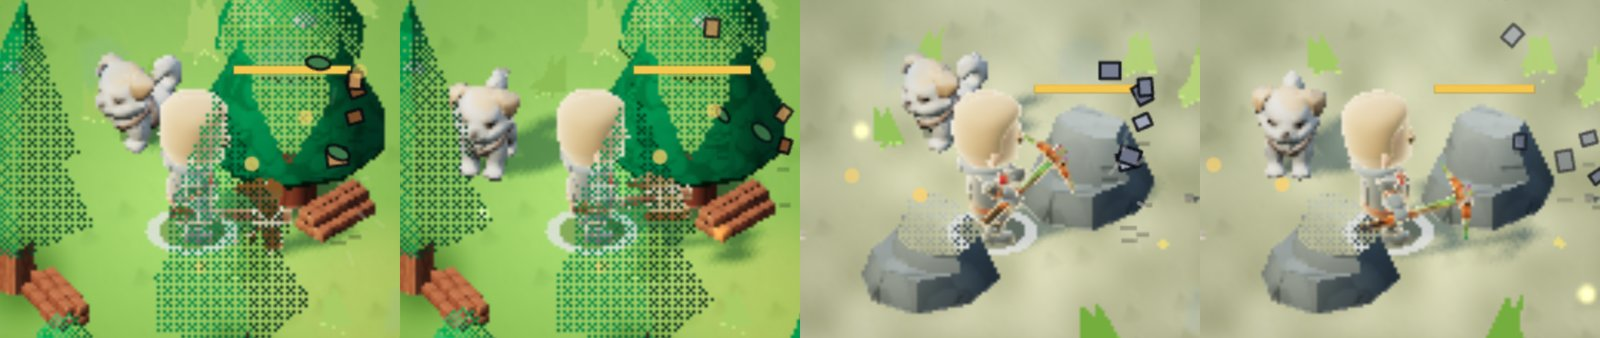
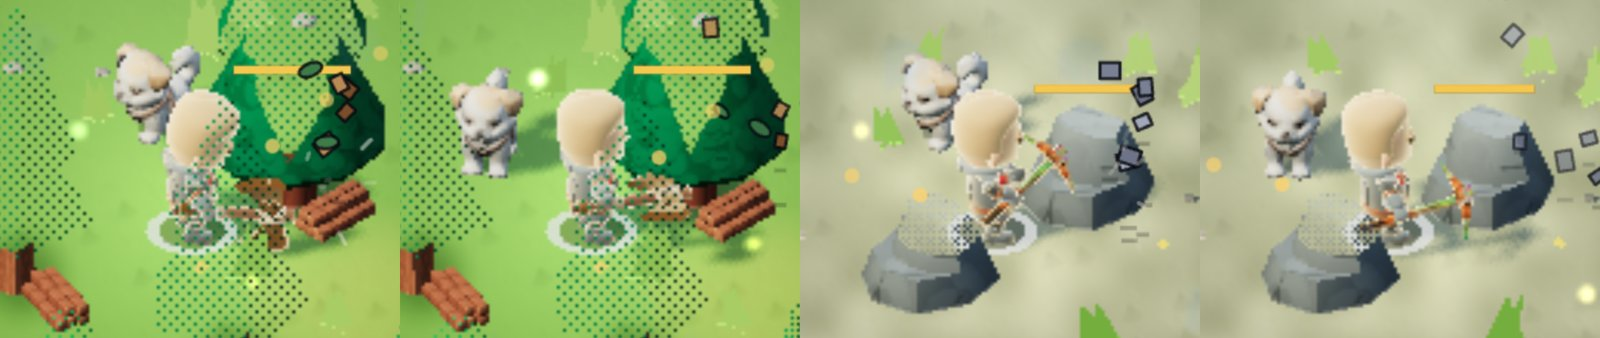
בזמן איסוף העץ שמול הגיבור כמעט נעלם, כדי שרואים את הגיבור, את הכלי ואת המכה
Claude-Session: https://claude.ai/code/session_01ABMDoMDhuh6bqo8eGThZKe

diff --git a/js/readable3d.js b/js/readable3d.js
@@ -9,10 +9,12 @@
 const READ3D={
   on:!/[?&]read=0/.test(location.search),
   see:{r:120,edge:0.3,keep:0.3,minY:24,lift:32,near:18,fade:5,skip:['v_gate']},   // skip: מודלים שלא נעשים שקופים (השער: הגיבור עומד מתחת לקשת ולא מוסתר בה, והגג קיבל נקודות. באג 8.11.2026). r: רדיוס העיגול (יחידות משחק) סביב אמצע הגוף. keep: כמה נשאר מהעץ. near: כמה לפני הגיבור מתחיל החיתוך. fade: כמה מהר נדלק בכניסה
+  // בזמן איסוף (כלי ביד, gtHeld ב-gtool.js): העץ או הסלע שמכים בו כמעט נעלם סביב הגיבור, כדי שרואים את הגיבור, את הכלי ואת המכה (מתאם, 10.11)
+  gather:{keep:0.08,r:1.3,fade:6},   // keep: כמה נשאר, r: פי כמה העיגול, fade: כמה מהר
   hero:{col:0xF4F7FF,op:0.8,r:22,in:0.72},          // הטבעת מתחת לגיבור: צבע, שקיפות, רדיוס, ועובי (in: הרדיוס הפנימי ביחס)
   foe:{shadow:0.38,sk:1.05,rim:0.6,rk:1.1,rkWeak:1.32,in:0.86}   // אויבים: צל נוסף, קו כהה (rk: רדיוס ביחס ל-e.r*1.15; עם חולשה מחוץ לטבעת שלה)
 };
-const RD={U:null,seen:new WeakSet(),k:0,stamp:'',n:0,v:null,v2:null};
+const RD={U:null,seen:new WeakSet(),k:0,g:0,stamp:'',n:0,v:null,v2:null};
 const rdHere=()=>READ3D.on&&typeof S!=='undefined'&&S&&!S.room&&!S.mb&&!!(S.vil||S.wd);
 
 // החיתוך בכרטיס הגרפי: מוסיף לחומר קיים (Lambert/Standard/Phong) בדיקה בתחילת ה-fragment. uniforms משותפים לכולם
@@ -51,7 +53,9 @@ function rdFrame(dt){
   const dir=c.getWorldDirection(RD.v3||(RD.v3=new THREE.Vector3()));
   v.set(p.x,p.y+Q.lift,p.z).addScaledVector(dir,-Q.near).project(c);U.occZ.value=v.z*0.5+0.5;
   v.set(p.x,p.y+Q.lift,p.z).project(c);const sx=(v.x*0.5+0.5)*b.x,sy=(v.y*0.5+0.5)*b.y;U.occP.value.set(sx,sy);
-  v.set(p.x+Q.r,p.y+Q.lift,p.z).project(c);U.occR.value=Math.abs((v.x*0.5+0.5)*b.x-sx);
+  const G=READ3D.gather,hold=typeof gtHeld==='function'&&!!gtHeld();RD.g=Math.max(0,Math.min(1,RD.g+(hold?1:-1)*Math.min(dt||0.016,0.05)*G.fade));
+  U.occKeep.value=Q.keep+(G.keep-Q.keep)*RD.g;   // איסוף: שקוף יותר
+  v.set(p.x+Q.r*(1+(G.r-1)*RD.g),p.y+Q.lift,p.z).project(c);U.occR.value=Math.abs((v.x*0.5+0.5)*b.x-sx);
 }
 
 // הסימנים החדשים על הקרקע: באותה שכבה כמו הצל של render3d (R3D.marks), אז הם מתאפסים ונשלחים לכרטיס איתם

diff --git a/index.html b/index.html
@@ -480,7 +480,7 @@
 <script src="js/sharphit.js"></script>   <!-- מכה חדה: פס בכיוון המכה, הבזק קצר ורתיעה; סקיל גדול וחזק יותר (SHARP). עוטף damage, juiceHit ו-juiceDraw -->
 <script src="js/gather.js"></script>   <!-- תחושת איסוף בעולם: חתיכות בכל מכה, מקור שנעלם בהדרגה, שלל שעף לגיבור, גדם ונבט, חורשות (GATHER) -->
 <script src="js/gmastery.js"></script>   <!-- מומחיות איסוף: עצים, אבנים ומתכות, צמחים, 5 דרגות שמאיצות את הקצב (GMASTERY) -->
-<script src="js/gtool.js"></script>   <!-- כלי איסוף ביד: גרזן ופטיש, 5 דרגות, שדרוג בנפחייה עם שעון (GTOOL) -->
+<script src="js/gtool.js"></script>   <!-- כלי איסוף ביד: גרזן ומכוש, 5 דרגות, שדרוג בנפחייה עם שעון (GTOOL) -->
 <script src="js/firstup.js"></script>   <!-- השדרוג הראשון: הנפחייה היא היעד של החזרה הראשונה, ומשחיזה את הנשק עם לפני/אחרי (FIRSTUP) -->
 <script src="js/goal.js"></script>   <!-- יעד ליד המשאבים: "🪨 12/40 · Market" בפס העליון בעולם, 📌 בכפר (GOAL) -->
 <script src="js/vproj.js"></script>   <!-- פרויקטים בכפר: סדנת החוצבת בשלושה שלבים, ופותחת את המחצבה העמוקה (VPROJ) -->   <!-- יעד ליד המשאבים: "🪨 12/40 · Market" בפס העליון בעולם, 📌 בכפר (GOAL) -->
